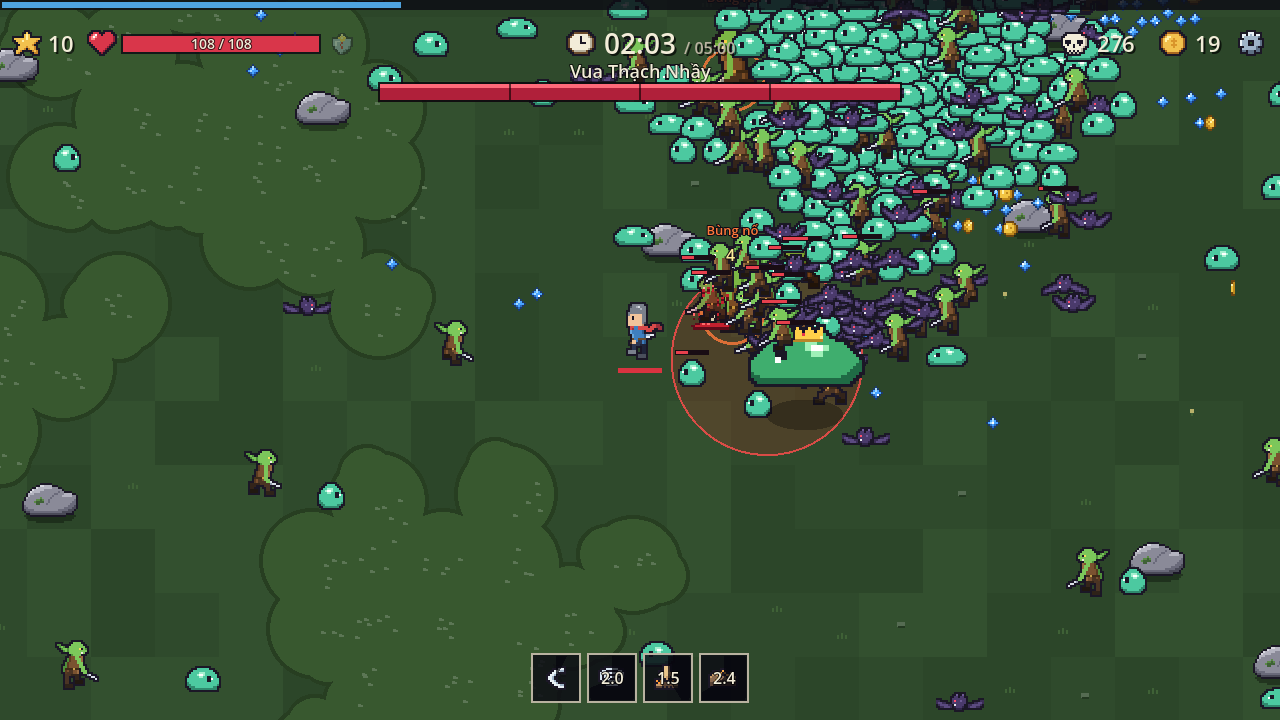
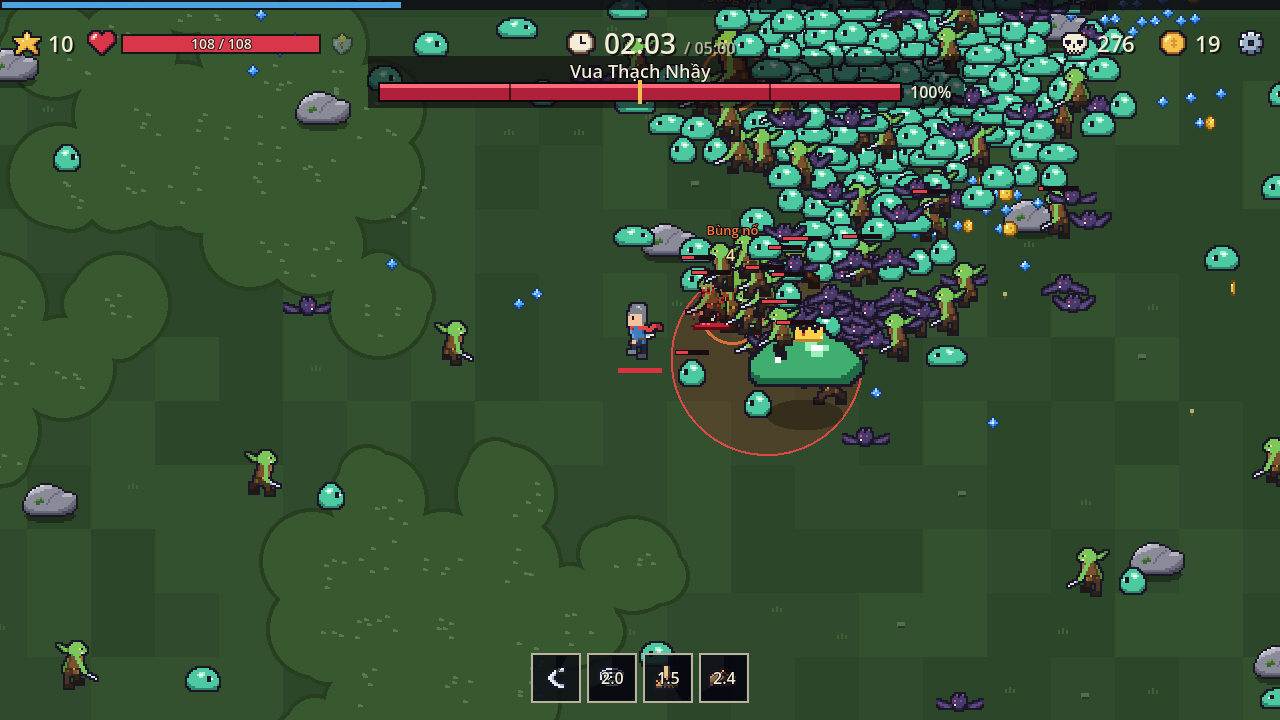
feat(hud): edge arrows for off-screen boss and elites, richer boss bar
Off-screen boss: a big red arrow with a skull at the screen edge; the
six nearest off-screen elites: gold arrows. Arrows sit where the line to
the target meets an inner rect clear of the top and bottom HUD bands and
grow bolder when the target is close. The boss bar gets a backdrop, an
opaque empty part, a pale recent-damage trail (holds 0.5 s, then shrinks),
a gold notch at the rage threshold, the hp percent and a NỔI GIẬN tag.
The first arrows were near-equilateral triangles that read as pointing
the wrong way at 1x; they are now long notched arrowheads.

Verified: tests failed first (no edge_point / trail_step), then gamekit test: 295 passed, 0 failed; shots evidence/hud-pointers/01-elite-arrow.png, 02-boss-arrow.png, 03-boss-bar-trail.png; gamekit ui-shots
Design: design/ux/hud.md

Changed region(s): [[0.2812, 0.0611, 0.75, 0.1528]]

diff --git a/design/ux/hud.md b/design/ux/hud.md
@@ -1,0 +1,25 @@
+# HUD trong trận
+
+Code: `src/run/run_hud.gd` (vẽ từ trạng thái trận, không giữ trạng thái gameplay). Kế hoạch: 6D.1.
+
+## Tham khảo
+
+| Nguồn | Điều lấy |
+|---|---|
+| Mũi tên mép màn ([Tuts+: indicators for off-screen targets](https://code.tutsplus.com/positioning-on-screen-indicators-to-point-to-off-screen-targets--gamedev-6644t), [Construct: offscreen enemy indicators](https://www.construct.net/en/tutorials/offscreen-enemy-indicators-208/page-3), [Starship Survivors: edge-arrow HUD](https://starship-survivors-wiki.pages.dev/gameplay/concepts/edge-arrow-hud), [Warframe forum](https://forums.warframe.com/topic/330565-archwing-suggestion-off-screen-target-indicator)) | Đặt mũi tên nơi hướng từ người chơi tới mục tiêu cắt mép màn; chừa mép và **không đè HUD**; mục tiêu càng gần càng đậm/to. |
+| Thanh máu boss có vệt sát thương trễ ([Calamity Mod: Boss Health Bar](https://calamitymod.wiki.gg/wiki/Boss_Health_Bar), [Abratabia: health bars](https://www.abratabia.com/game-ui-design/health-bars-indicators.php), [Darkstalkers 3 HUD](https://srk.shib.live/w/Darkstalkers_3/HUD)) | Thanh chính tụt ngay; vệt sáng giữ phần vừa mất ~0,5 s rồi co lại theo; thanh chia đoạn cho các pha. |
+
+**Học:** mục tiêu ngoài màn phải chỉ được; sát thương vừa gây phải thấy. **Tránh:** mũi tên đè thanh máu / thanh chiêu;
+mũi tên tam giác đều (ở 1x không biết chỉ hướng nào: lỗi ở lần chụp đầu); tên boss chìm vào đám quái.
+
+## Bố cục
+
+- Trên: thanh kinh nghiệm; cấp, máu, nội tại; đồng hồ; số quái hạ, vàng, nút cài đặt.
+- **Thanh máu boss** dưới đồng hồ khi có boss: nền tối sau tên + thanh; thanh 520 px, vạch chia 25/50/75%, **vệt hồng
+  nhạt** giữ phần máu vừa mất 0,5 s rồi co lại; **vạch vàng** ở ngưỡng nổi giận (`rage_at`); số % bên phải; chữ
+  **NỔI GIẬN** đỏ bên trái khi boss nổi giận.
+- **Mũi tên mép màn**: boss ngoài màn: mũi tên đỏ to + đầu lâu; tinh anh ngoài màn: mũi tên vàng (6 con gần nhất).
+  Mũi tên dài, có khấc đuôi và viền tối; nằm trong vùng chừa 26 px mép, dưới dải trên 96 px và trên dải dưới 84 px.
+  Gần (vừa ra khỏi màn): đậm và to; xa: mờ hơn.
+- Dưới: thanh chiêu. Giữa trên: câu báo sự kiện / đợt quái.
+- Test: `tests/unit/run/hud_pointers_test.gd` (điểm trên mép, vệt máu).

diff --git a/production/upgrade-plan.md b/production/upgrade-plan.md
@@ -50,7 +50,7 @@ sóng xung kích mỗi cú dậm). Nhịp sóng có báo trước (`announce`). 
 5. Mở rộng 100 ải (5 vùng × 20) sau khi 6A–6B ổn ở 3 vùng đầu; mô phỏng cân bằng headless.
 
 ### 6D · Giao diện và cảm giác
-1. Trong trận: mũi tên chỉ boss / tinh anh ngoài màn, thanh máu boss lớn trên đỉnh màn, báo đợt quái.
+1. ✓ (2026-11-19, `design/ux/hud.md`) Trong trận: mũi tên chỉ boss / tinh anh ngoài màn, thanh máu boss lớn trên đỉnh màn, báo đợt quái.
 2. Hiệu ứng: lật thẻ khi lên cấp, quay gacha theo độ hiếm, số sát thương chí mạng.
 3. Màn kết quả: sát thương từng chiêu (biểu đồ), thời gian sống, quái hạ, phần thưởng.
 4. Icon chiêu / thẻ 24 px như icon trang bị (đồng bộ, không méo).
